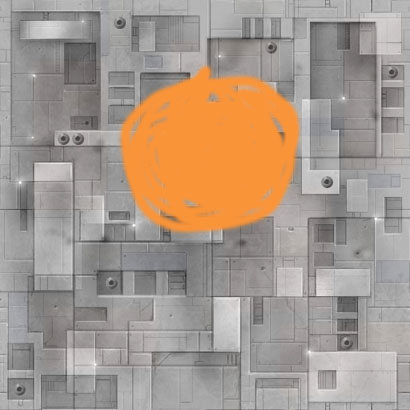
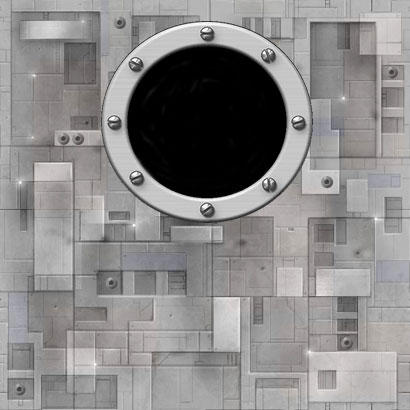
Add new picture

Changed region(s): [[0.2341, 0.0293, 0.761, 0.5854]]

diff --git a/public/javascripts/game/Map.js b/public/javascripts/game/Map.js
@@ -337,7 +337,7 @@ Map.prototype.ship = function () {
             map: THREE.ImageUtils.loadTexture('javascripts/Maps/shiphull.jpg') // 6 super mechant
         }),
         new THREE.MeshLambertMaterial({
-            map: THREE.ImageUtils.loadTexture('javascripts/Maps/shiphull.jpg') // 7 poste de controle
+            map: THREE.ImageUtils.loadTexture('javascripts/Maps/console.jpg') // 7 poste de controle
         }),
         new THREE.MeshLambertMaterial({
             map: THREE.ImageUtils.loadTexture('javascripts/Maps/shiphull.jpg') // 8 energy
